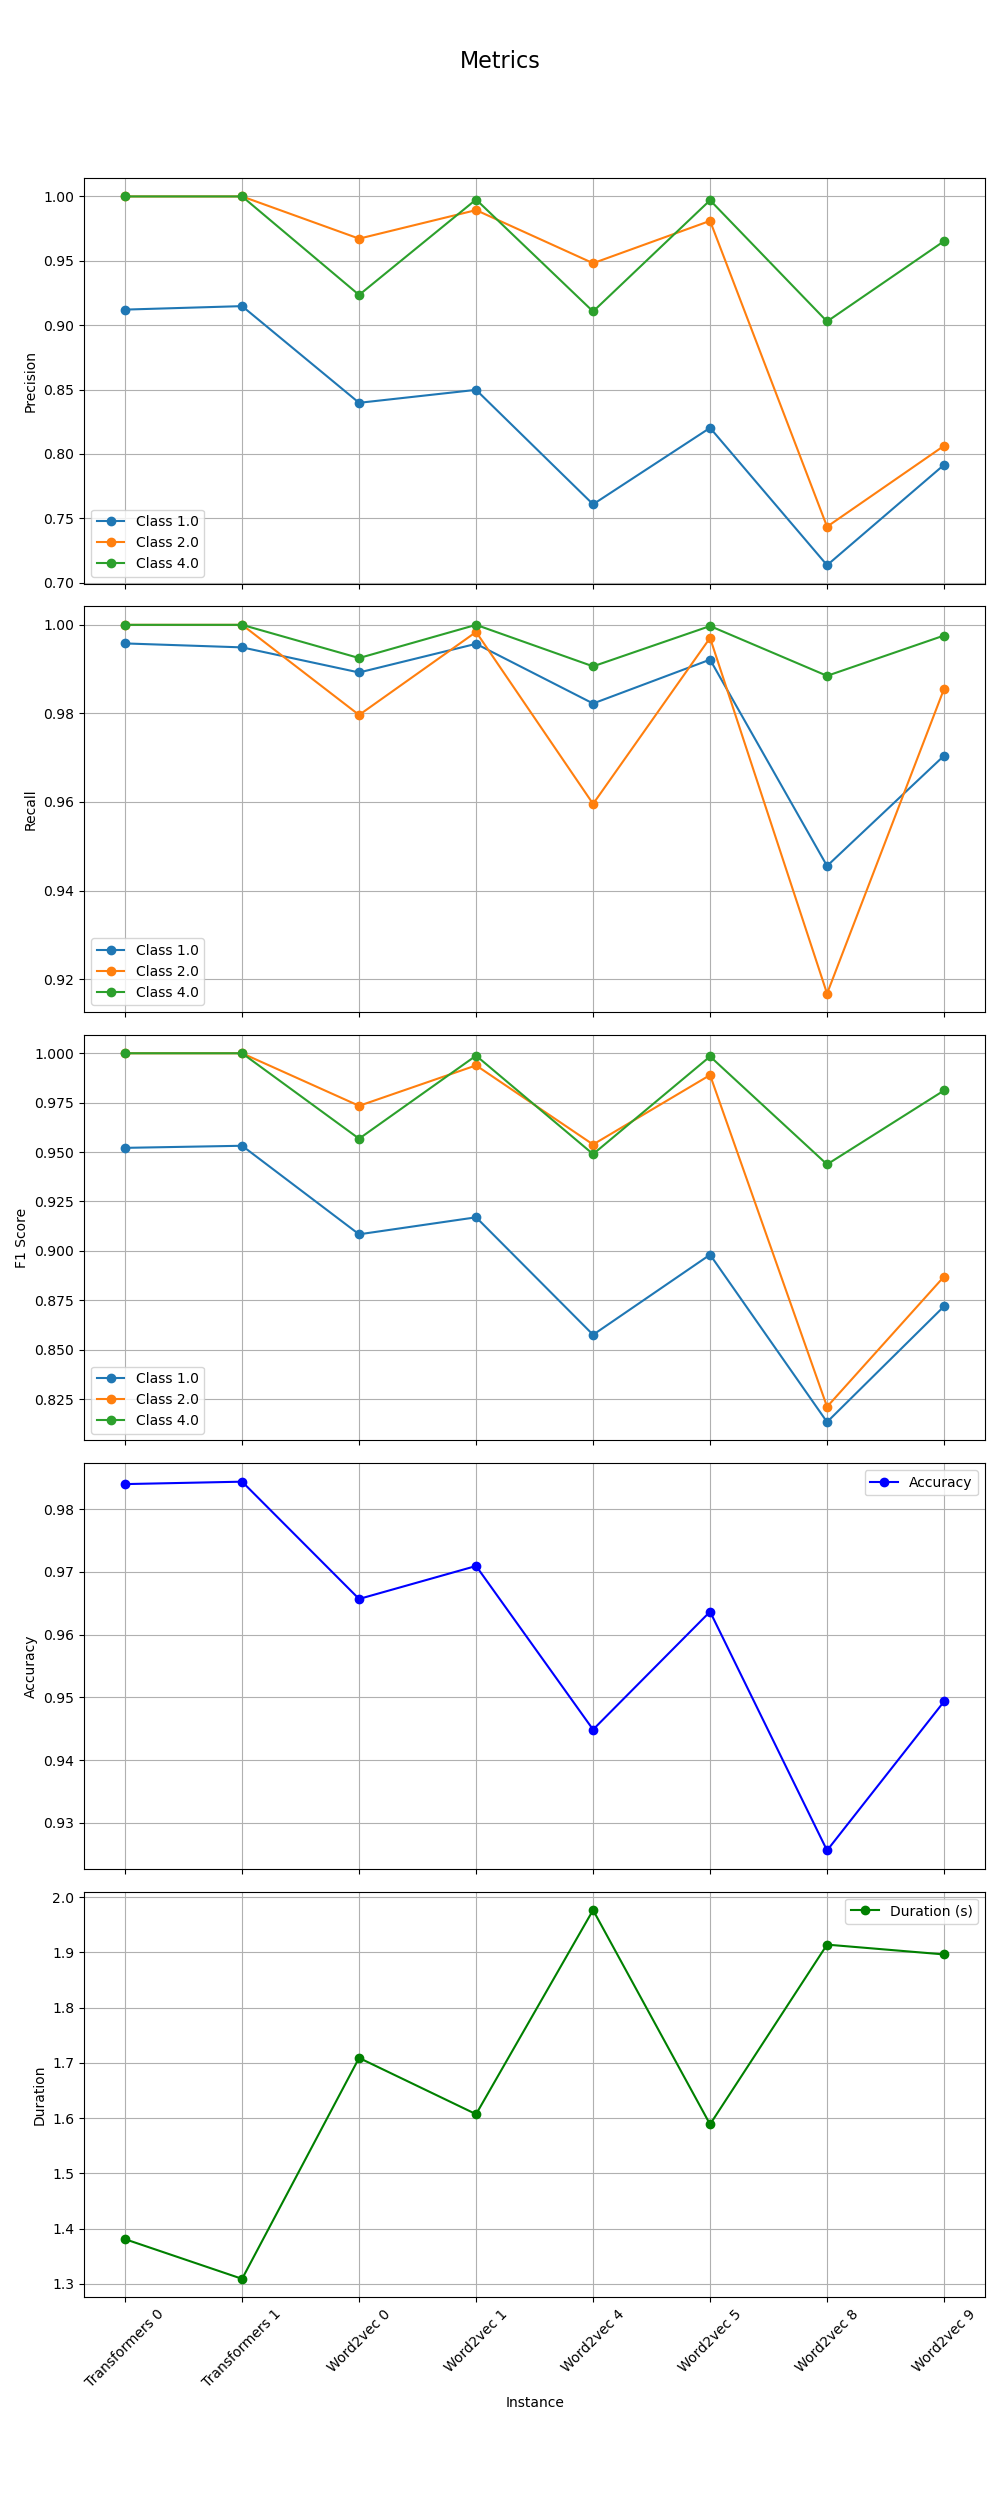
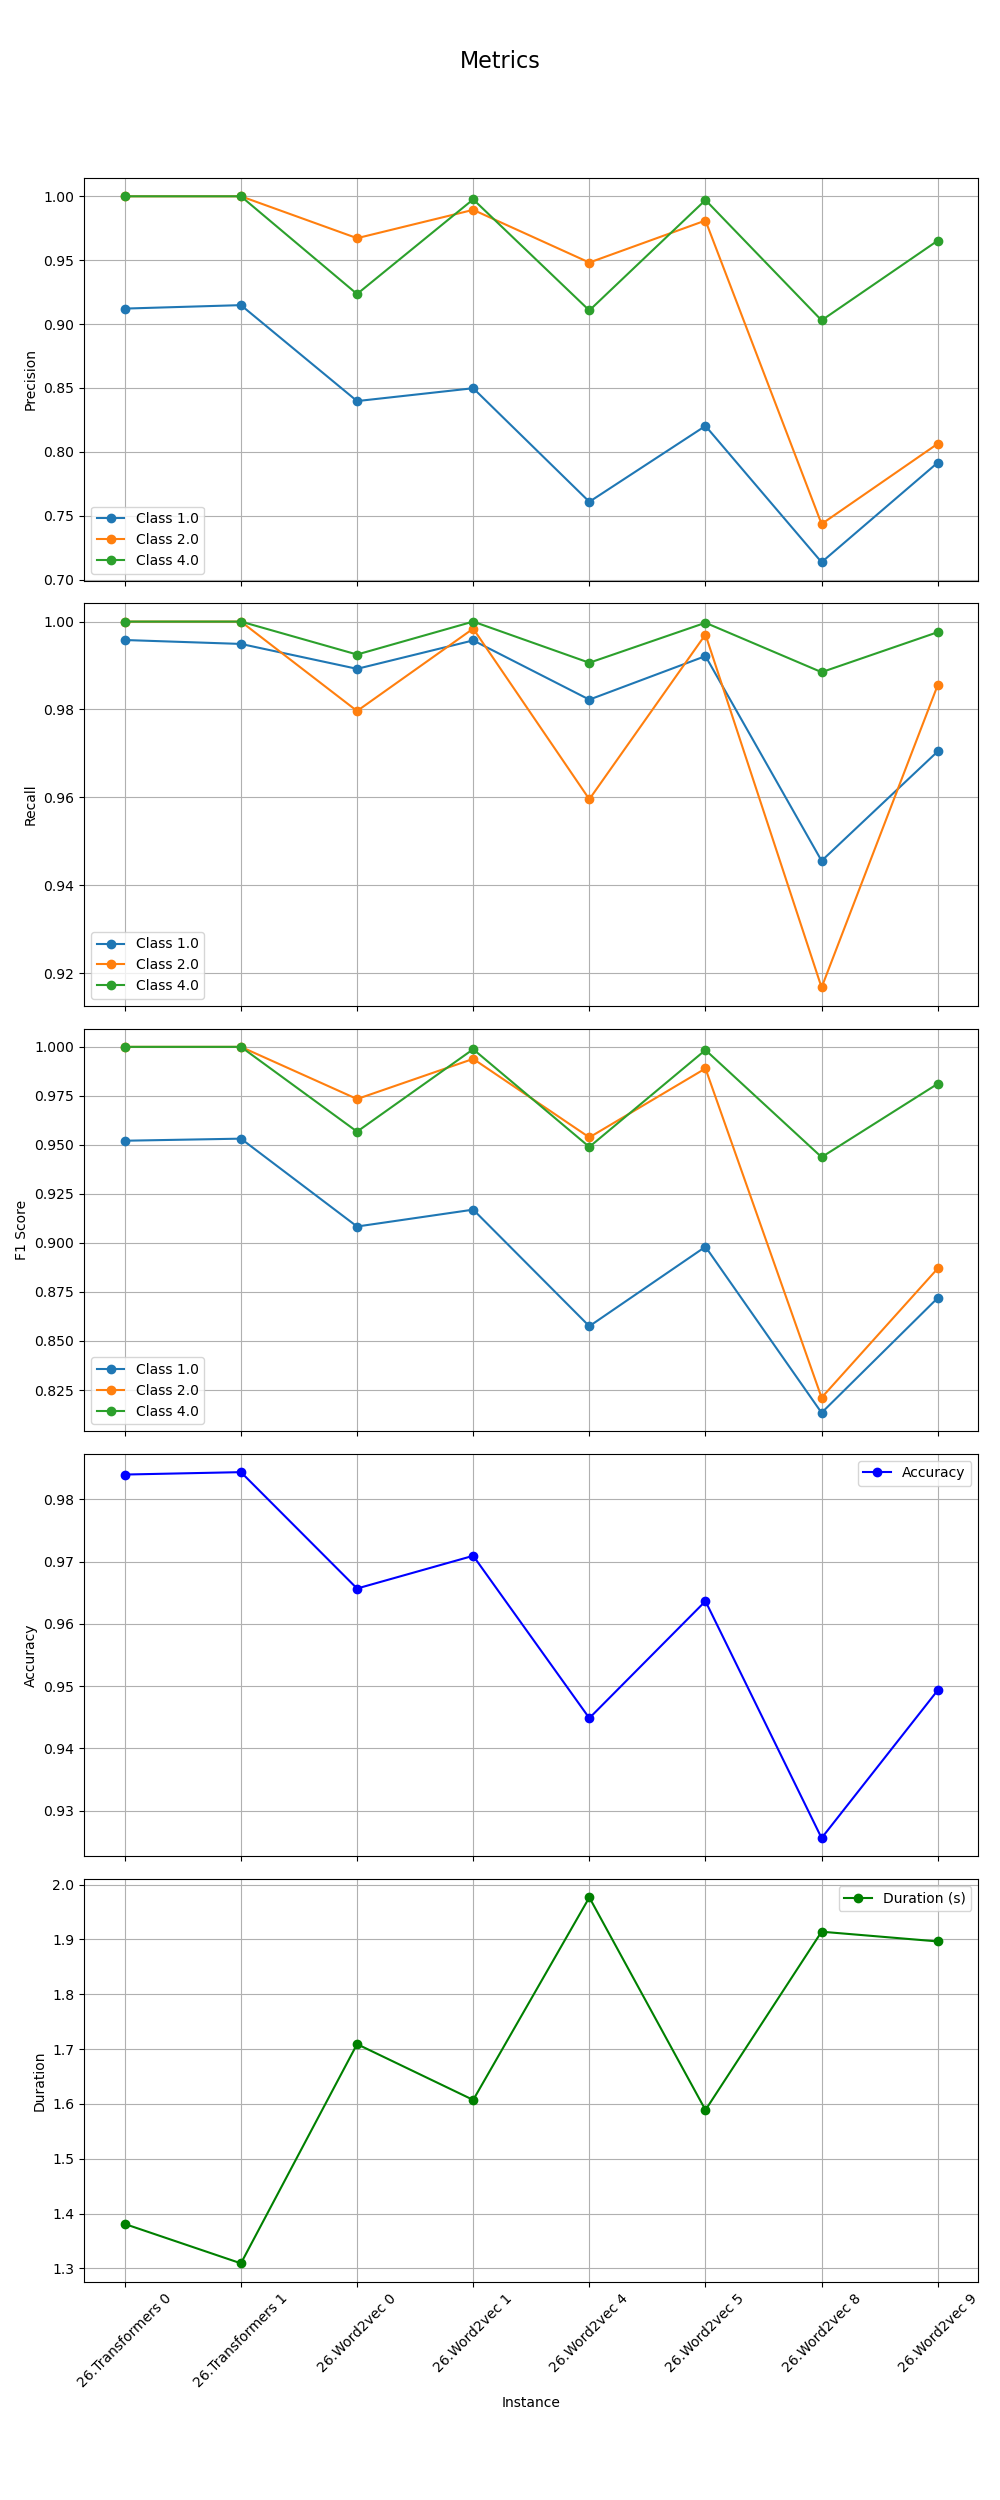
add some code analyser

diff --git a/src/annexe_generation/log_analyser/analyser.py b/src/annexe_generation/log_analyser/analyser.py
@@ -11,6 +11,19 @@ from annexe_generation.log_analyser.random_forest_analyser.extractor import rand
 from annexe_generation.log_analyser.random_forest_analyser.classifier_data import ClassificationResults, get_best_instances, plot_metrics, save_classification_results_to_json
 from annexe_generation.log_analyser.clustering_analyser.clustering_data import ClusteringResult, clustering_pie_charts, save_clustering_results_to_json
 
+def compare_list_of_dicts(list1: list[dict[str, str]], list2: list[dict[str, str]]) -> bool:
+    """
+    Compare if two lists of dictionaries contain the same values.
+
+    Args:
+    list1 (list[dict[str, str]]): The first list of dictionaries.
+    list2 (list[dict[str, str]]): The second list of dictionaries.
+
+    Returns:
+    bool: True if both lists contain the same dictionaries, False otherwise.
+    """
+    return all(dict_item in list2 for dict_item in list1) and len(list1) == len(list2)
+
 def read_file(file_path: str):
     try:
         with open(file_path, 'r') as file:
@@ -19,6 +32,49 @@ def read_file(file_path: str):
     except Exception as e:
         print(f"An error occurred: {e}")
         exit(1)
+
+def list_of_dicts_to_latex_table(list_of_dicts: list[dict[str, str]], caption: str = "Table caption", label: str = "tab:mytable") -> str:
+    """
+    Convert a list of dictionaries to a LaTeX tabular environment.
+
+    Args:
+    list_of_dicts (list[dict[str, str]]): List of dictionaries to convert.
+    caption (str, optional): Caption for the LaTeX table. Defaults to "Table caption".
+    label (str, optional): Label for the LaTeX table. Defaults to "tab:mytable".
+
+    Returns:
+    str: LaTeX code for the table.
+    """
+    if not list_of_dicts:
+        return "The list is empty."
+
+    # Extracting the column names from the keys of the first dictionary
+    columns = list(list_of_dicts[0].keys())
+    num_columns = len(columns)
+
+    # Creating the LaTeX tabular environment
+    latex_code = "\\begin{table}[h]\n"
+    latex_code += "\\centering\n"
+    latex_code += "\\begin{tabular}{" + "l" * num_columns + "}\n"
+    latex_code += "\\hline\n"
+
+    # Adding the column headers
+    latex_code += " & ".join(columns) + " \\\\ \n"
+    latex_code += "\\hline\n"
+
+    # Adding the rows
+    for item in list_of_dicts:
+        row = " & ".join(item.values()) + " \\\\"
+        latex_code += row + "\n"
+
+    latex_code += "\\hline\n"
+    latex_code += "\\end{tabular}\n"
+    latex_code += f"\\caption{{{caption}}}\n"
+    latex_code += f"\\label{{{label}}}\n"
+    latex_code += "\\end{table}"
+
+    return latex_code
+
 
 if __name__ == "__main__":
     parser = argparse.ArgumentParser(description='Read a file and process its contents.')
@@ -33,6 +89,9 @@ if __name__ == "__main__":
 
 
 
+    clustering_timeouts : list[dict[str, str]] = []
+    classification_timeouts : list[dict[str, str]] = []
+
     clustering_results : list[ClusteringResult] = []
     classification_results : list[ClassificationResults] = []
 
@@ -46,9 +105,16 @@ if __name__ == "__main__":
     # Read all files
     for file in files:
         lines: list[str] = read_file(file)
-        clustering_results += extract_all_dataset_results(lines, clustering_extractor)
-        classification_results += extract_all_dataset_results(lines, random_forest_extractor)
+        clustering, clustering_timeout = extract_all_dataset_results(lines, clustering_extractor)
+        classification, classification_timeout = extract_all_dataset_results(lines, random_forest_extractor)
 
+        clustering_results.extend(clustering)
+        classification_results.extend(classification)
+
+        clustering_timeouts.extend(clustering_timeout)
+        classification_timeouts.extend(classification_timeout)
+
+    assert compare_list_of_dicts(clustering_timeouts, classification_timeouts), "Clustering and classification timeouts are not the same"
     # extract the instance by dataset
     # Organize clustering and classification results by dataset
     for result in clustering_results:
@@ -64,6 +130,9 @@ if __name__ == "__main__":
         classification_results_by_dataset[dataset_name].append(result)
 
     # ------------------------- Extract the clustering results
+
+    # make the list of timeout instances as latex
+
     
     for dataset_name, results in clustering_results_by_dataset.items():
         dataset_path = os.path.join(args.output, dataset_name)

diff --git a/src/annexe_generation/log_analyser/common_extractor.py b/src/annexe_generation/log_analyser/common_extractor.py
@@ -1,6 +1,6 @@
 
 
-from typing import Callable, List, Type, TypeVar
+from typing import Callable, List, Tuple, Type, TypeVar
 import traceback
 import re
 
@@ -152,7 +152,7 @@ def __is_end(log_lines: List[str], begin_line: int) -> bool:
 
 T = TypeVar('T')
 
-def extract_all_dataset_results(log_lines: list[str], extractor: Callable[[list[str], int, str], T]) -> List[T]:
+def extract_all_dataset_results(log_lines: list[str], extractor: Callable[[list[str], int, str], T]) -> Tuple[List[T], List[dict[str, str]]]:
     """
     Extracts results from a list of log lines using a specified extractor function and data class.
 
@@ -163,8 +163,10 @@ def extract_all_dataset_results(log_lines: list[str], extractor: Callable[[list[
 
     Returns:
     List[T]: A list of results as instances of the specified data class.
+    List[dict[str, str]]: A list of dictionaries containing the dataset path and instance name for each timeout instance.
     """
     results = []
+    timeout_instances = []
     dataset_path = None
     i = 0
     while dataset_path is None and i < len(log_lines):
@@ -172,23 +174,30 @@ def extract_all_dataset_results(log_lines: list[str], extractor: Callable[[list[
         i += 1
 
     if dataset_path is None:
-        return results
+        return results, timeout_instances
 
     begin_index = __get_next_instance(log_lines, 0)
     if begin_index is None:
-        return results
+        return results, timeout_instances
 
     while begin_index < len(log_lines):
         try:
             if __is_already_computed(log_lines, begin_index):
                 begin_index += 2
                 if __is_end(log_lines, begin_index):
-                    return results
+                    return results, timeout_instances
                 continue
 
             maybe_next_instance = __get_next_instance(log_lines, begin_index + 1)
 
             if maybe_next_instance is not None and __is_timeout_lines(log_lines, begin_index, maybe_next_instance):
+                instance_name = extract_instance_name(log_lines, begin_index, maybe_next_instance)
+                instance_number = extract_instance_number(log_lines, begin_index, maybe_next_instance)
+                timeout_instances.append({
+                    "instance" : instance_name + "_" + str(instance_number),
+                    "dataset" : dataset_path
+                })
+                
                 begin_index = maybe_next_instance
                 continue
 
@@ -199,22 +208,22 @@ def extract_all_dataset_results(log_lines: list[str], extractor: Callable[[list[
                     continue
             else:
                 if len(log_lines) - begin_index < 10:
-                    return results
+                    return results, timeout_instances
 
             result = extractor(log_lines, begin_index, dataset_path)
             results.append(result)
             
             # check end of file
             if maybe_next_instance is None:
-                return results
+                return results, timeout_instances
             
             if __is_end(log_lines, maybe_next_instance):
-                return results
+                return results, timeout_instances
                 
             begin_index = maybe_next_instance
         except AssertionError as e:
             print(f"An error occurred: {e}, line {begin_index}")
             traceback.print_exc()
-            return results
+            return results, timeout_instances
 
-    return results
+    return results, timeout_instances

diff --git a/src/annexe_generation/log_analyser/random_forest_analyser/classifier_data.py b/src/annexe_generation/log_analyser/random_forest_analyser/classifier_data.py
@@ -1,6 +1,7 @@
 from dataclasses import asdict, dataclass
 import json
 import os
+import re
 from typing import Any, Dict, List
 import matplotlib.pyplot as plt
 
@@ -186,27 +187,47 @@ def get_best_instances(classification_results: Dict[str, List[ClassificationResu
 def plot_metrics(classification_results_list: List[ClassificationResults], save_dir_path: str, file_name: str):
     if not classification_results_list:
         raise ValueError("The list of classification results is empty.")
+    
+    def extract_leading_number(text: str) -> int:
+        """
+        Extracts the leading number from a string.
+        
+        Args:
+        text (str): The input string from which to extract the number.
+        
+        Returns:
+        int: The extracted number.
+        
+        Raises:
+        ValueError: If no leading number is found in the string.
+        """
+        match = re.match(r"(\d+)_", text)
+        if match:
+            return int(match.group(1))
+        else:
+            raise ValueError("No leading number found in the string")
 
     # Prepare the data
     data = []
     accuracies = []
     durations = []
     for result in classification_results_list:
+        instance = str(extract_leading_number(result.dataset_name)) + "." + result.instance
         for label, metrics in result.class_metrics.items():
             if label != '0.0':
                 data.append({
-                    'Instance': result.instance,
+                    'Instance': instance,
                     'Class': label,
                     'Precision': metrics.precision,
                     'Recall': metrics.recall,
                     'F1 Score': metrics.f1_score,
                 })
         accuracies.append({
-            'Instance': result.instance,
+            'Instance': instance,
             'Accuracy': result.accuracy
         })
         durations.append({
-            'Instance': result.instance,
+            'Instance': instance,
             'Duration': result.duration
         })
 
